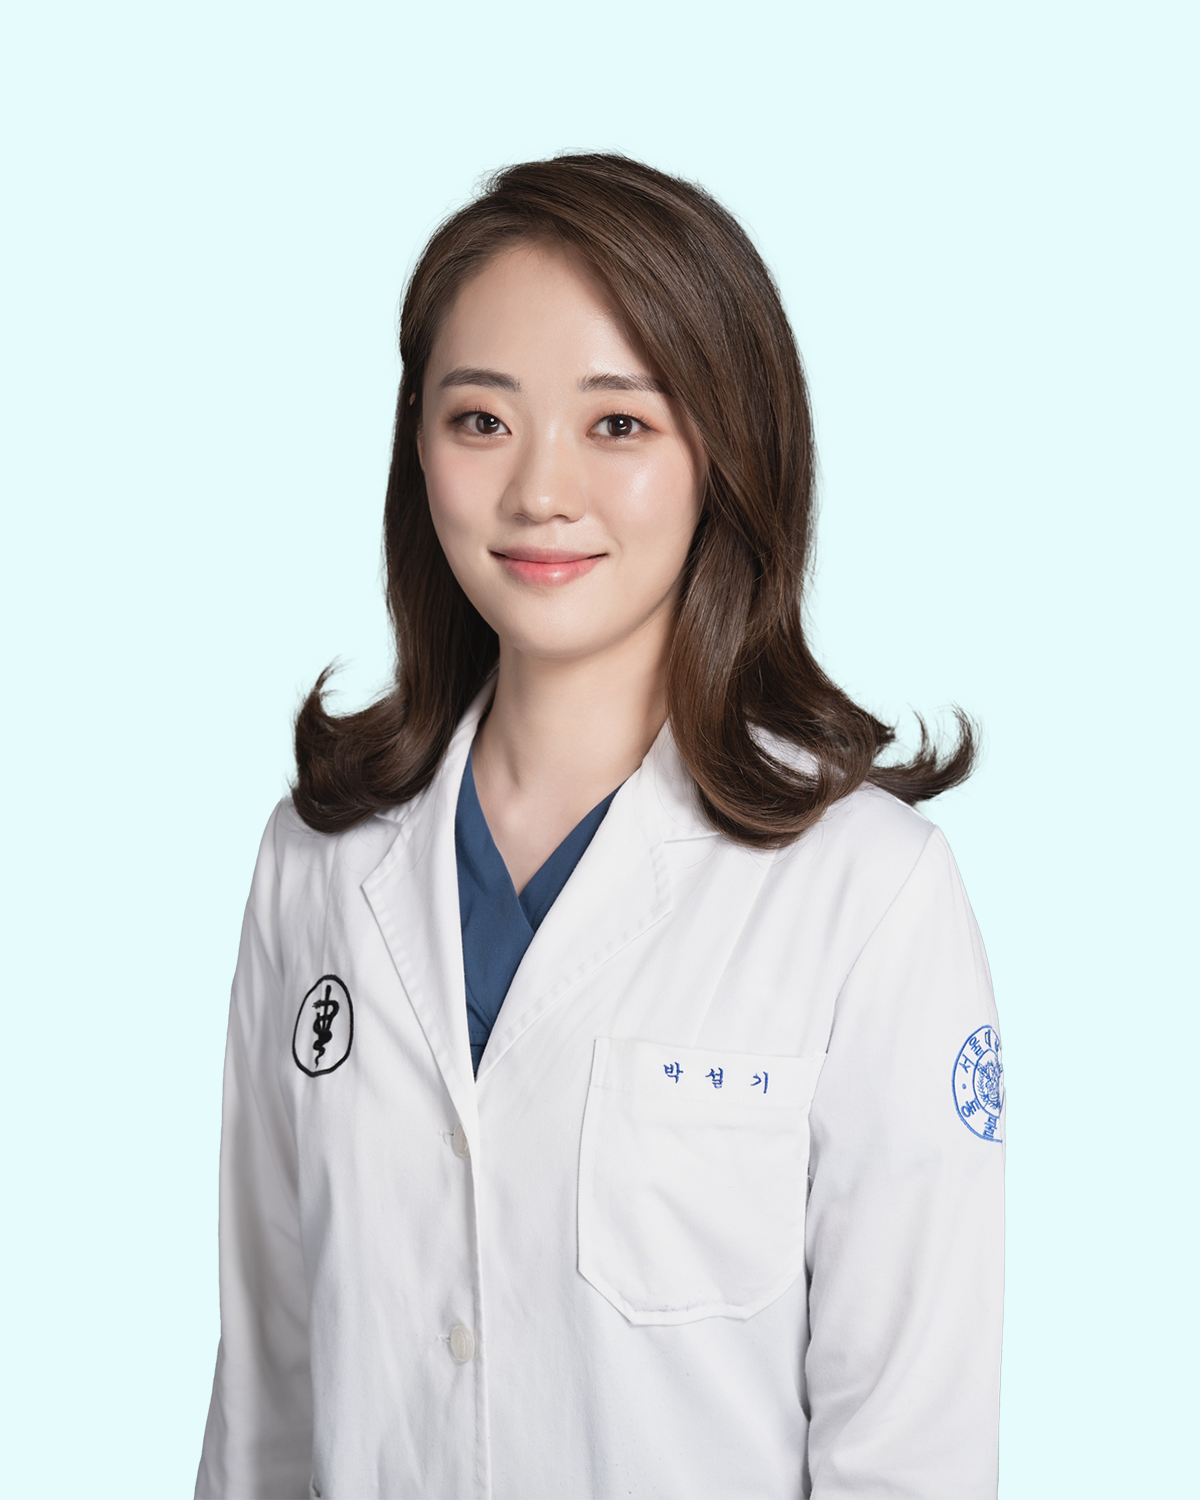
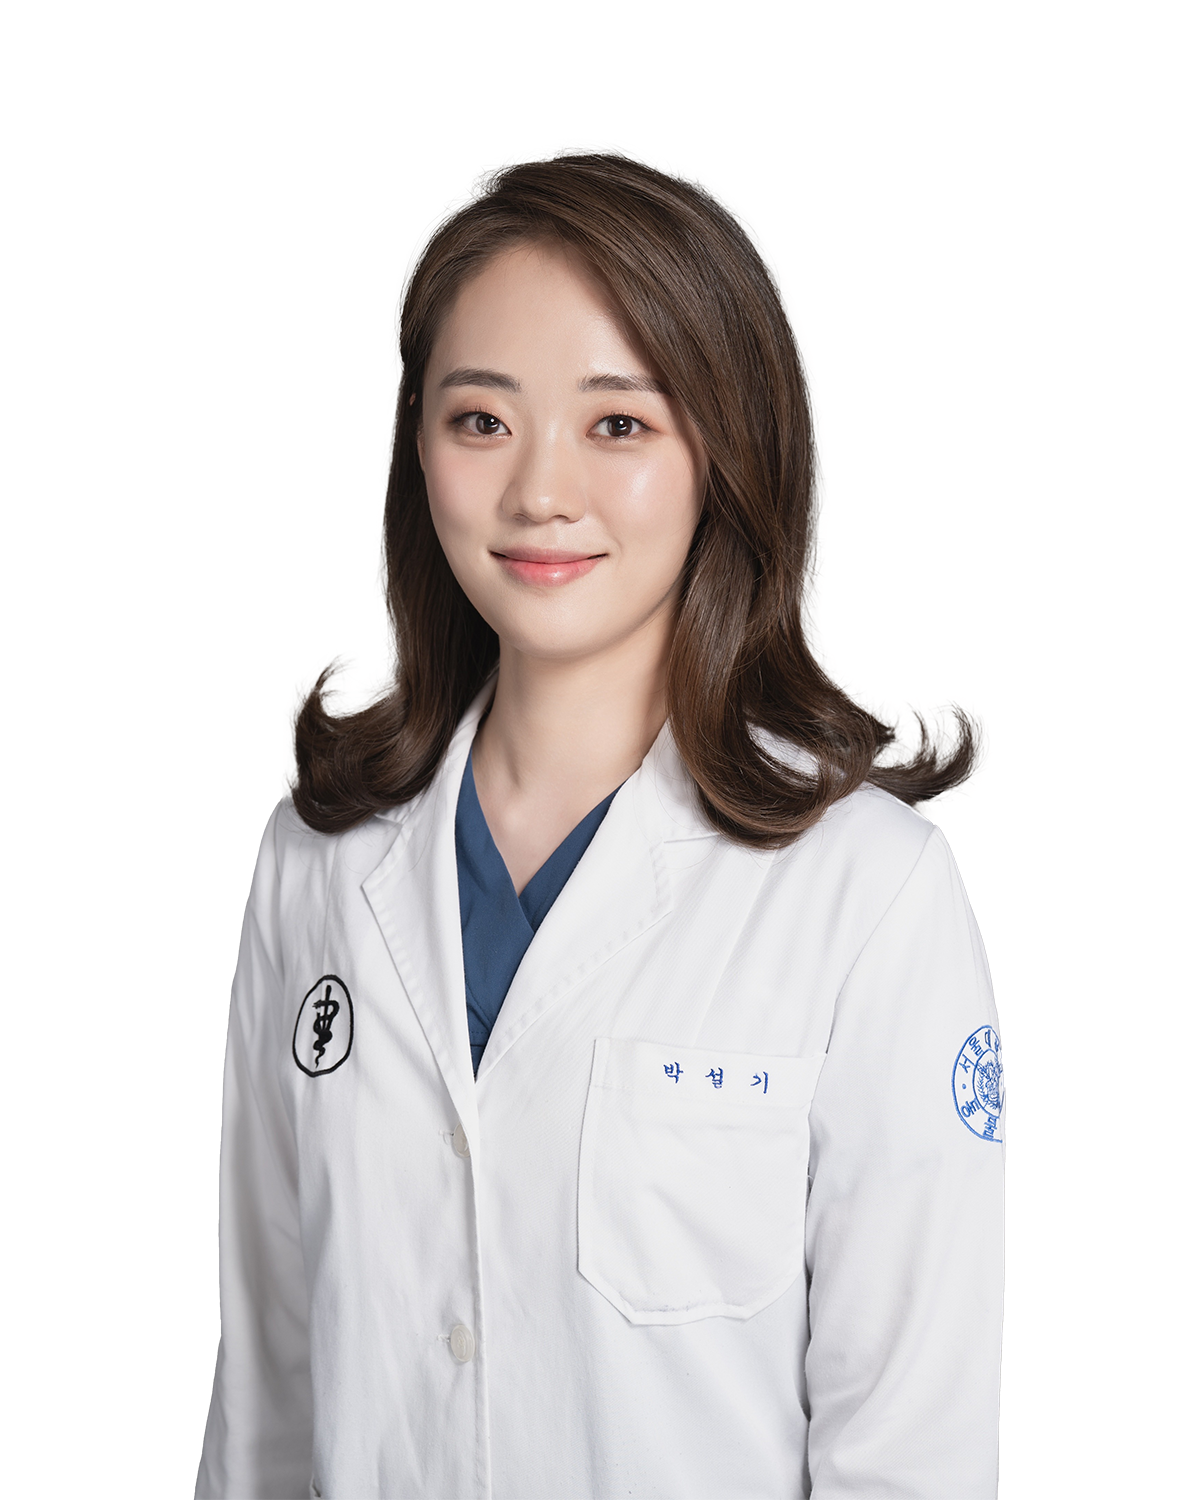
- 수의사 프로필사진 변경

diff --git a/src/config/vetInfo.js b/src/config/vetInfo.js
@@ -1,17 +1,17 @@
-import vet1 from "../images/vet/문종선.png";
-import vet2 from "../images/vet/정다슬.png";
-import vet3 from "../images/vet/김도희.png";
-import vet4 from "../images/vet/최동준.png";
-import vet5 from "../images/vet/박설기.png";
-import vet6 from "../images/vet/박주향.png";
-import vet7 from "../images/vet/최유진.png";
-import vet8 from "../images/vet/정태규.png";
-import vet9 from "../images/vet/윤기홍.png";
-import vet10 from "../images/vet/이선백.png";
-import vet11 from "../images/vet/서승원.png";
-import vet12 from "../images/vet/송재성.png";
-import vet13 from "../images/vet/박기종.png";
-import vet14 from "../images/vet/이한중.png";
+import vet1 from "../images/vet2/문종선.png";
+import vet2 from "../images/vet2/정다슬.png";
+import vet3 from "../images/vet2/김도희.png";
+import vet4 from "../images/vet2/최동준.png";
+import vet5 from "../images/vet2/박설기.png";
+import vet6 from "../images/vet2/박주향.png";
+import vet7 from "../images/vet2/최유진.png";
+import vet8 from "../images/vet2/정태규.png";
+import vet9 from "../images/vet2/윤기홍.png";
+import vet10 from "../images/vet2/이선백.png";
+import vet11 from "../images/vet2/서승원.png";
+import vet12 from "../images/vet2/송재성.png";
+import vet13 from "../images/vet2/박기종.png";
+import vet14 from "../images/vet2/이한중.png";
 
 const vetInfo = [
   {

diff --git a/src/pages/main/components/Introduce.js b/src/pages/main/components/Introduce.js
@@ -1,8 +1,9 @@
 import { useState, useEffect, useRef } from "react";
 import { styled, keyframes } from "styled-components";
-import profileImg from "../../../images/main/doc_moonjongsun_desc2.png";
+import profileImg2 from "../../../images/main/doc_moonjongsun_desc2.png";
 import univLogo from "../../../images/resource/images/충남대로고.png";
 import vetInfo from "../../../config/vetInfo";
+import profileImg from "../../../images/vet/문종선.png";
 
 function Introduce() {
   const [animate, setAnimate] = useState(false);
@@ -41,8 +42,9 @@ function Introduce() {
   return (
     <IntroduceContainer ref={componentRef} id={"Main_Intro"}>
       {windowWidth > 900 ? (
-        <ImageWrapper>
+        <ImageWrapper style={{ right: '5vh' }}>
           <img
+            style={{ maxHeight: '760px', width: '620px' }}
             className={animate ? "animate" : ""}
             src={profileImg}
             alt="profile img"

diff --git a/src/pages/main/components/Member.js b/src/pages/main/components/Member.js
@@ -239,11 +239,9 @@ const TitleWrapper = styled.div`
     h2 {
       color: #000048;
       font-size: 3rem;
-      text-shadow: 2px 2px 8px rgba(0, 0, 0, 0.5);
     }
     p {
       color: #000048;
-      text-shadow: 2px 2px 5px rgba(0, 0, 0, 0.5);
       margin: 5px;
     }
   }
